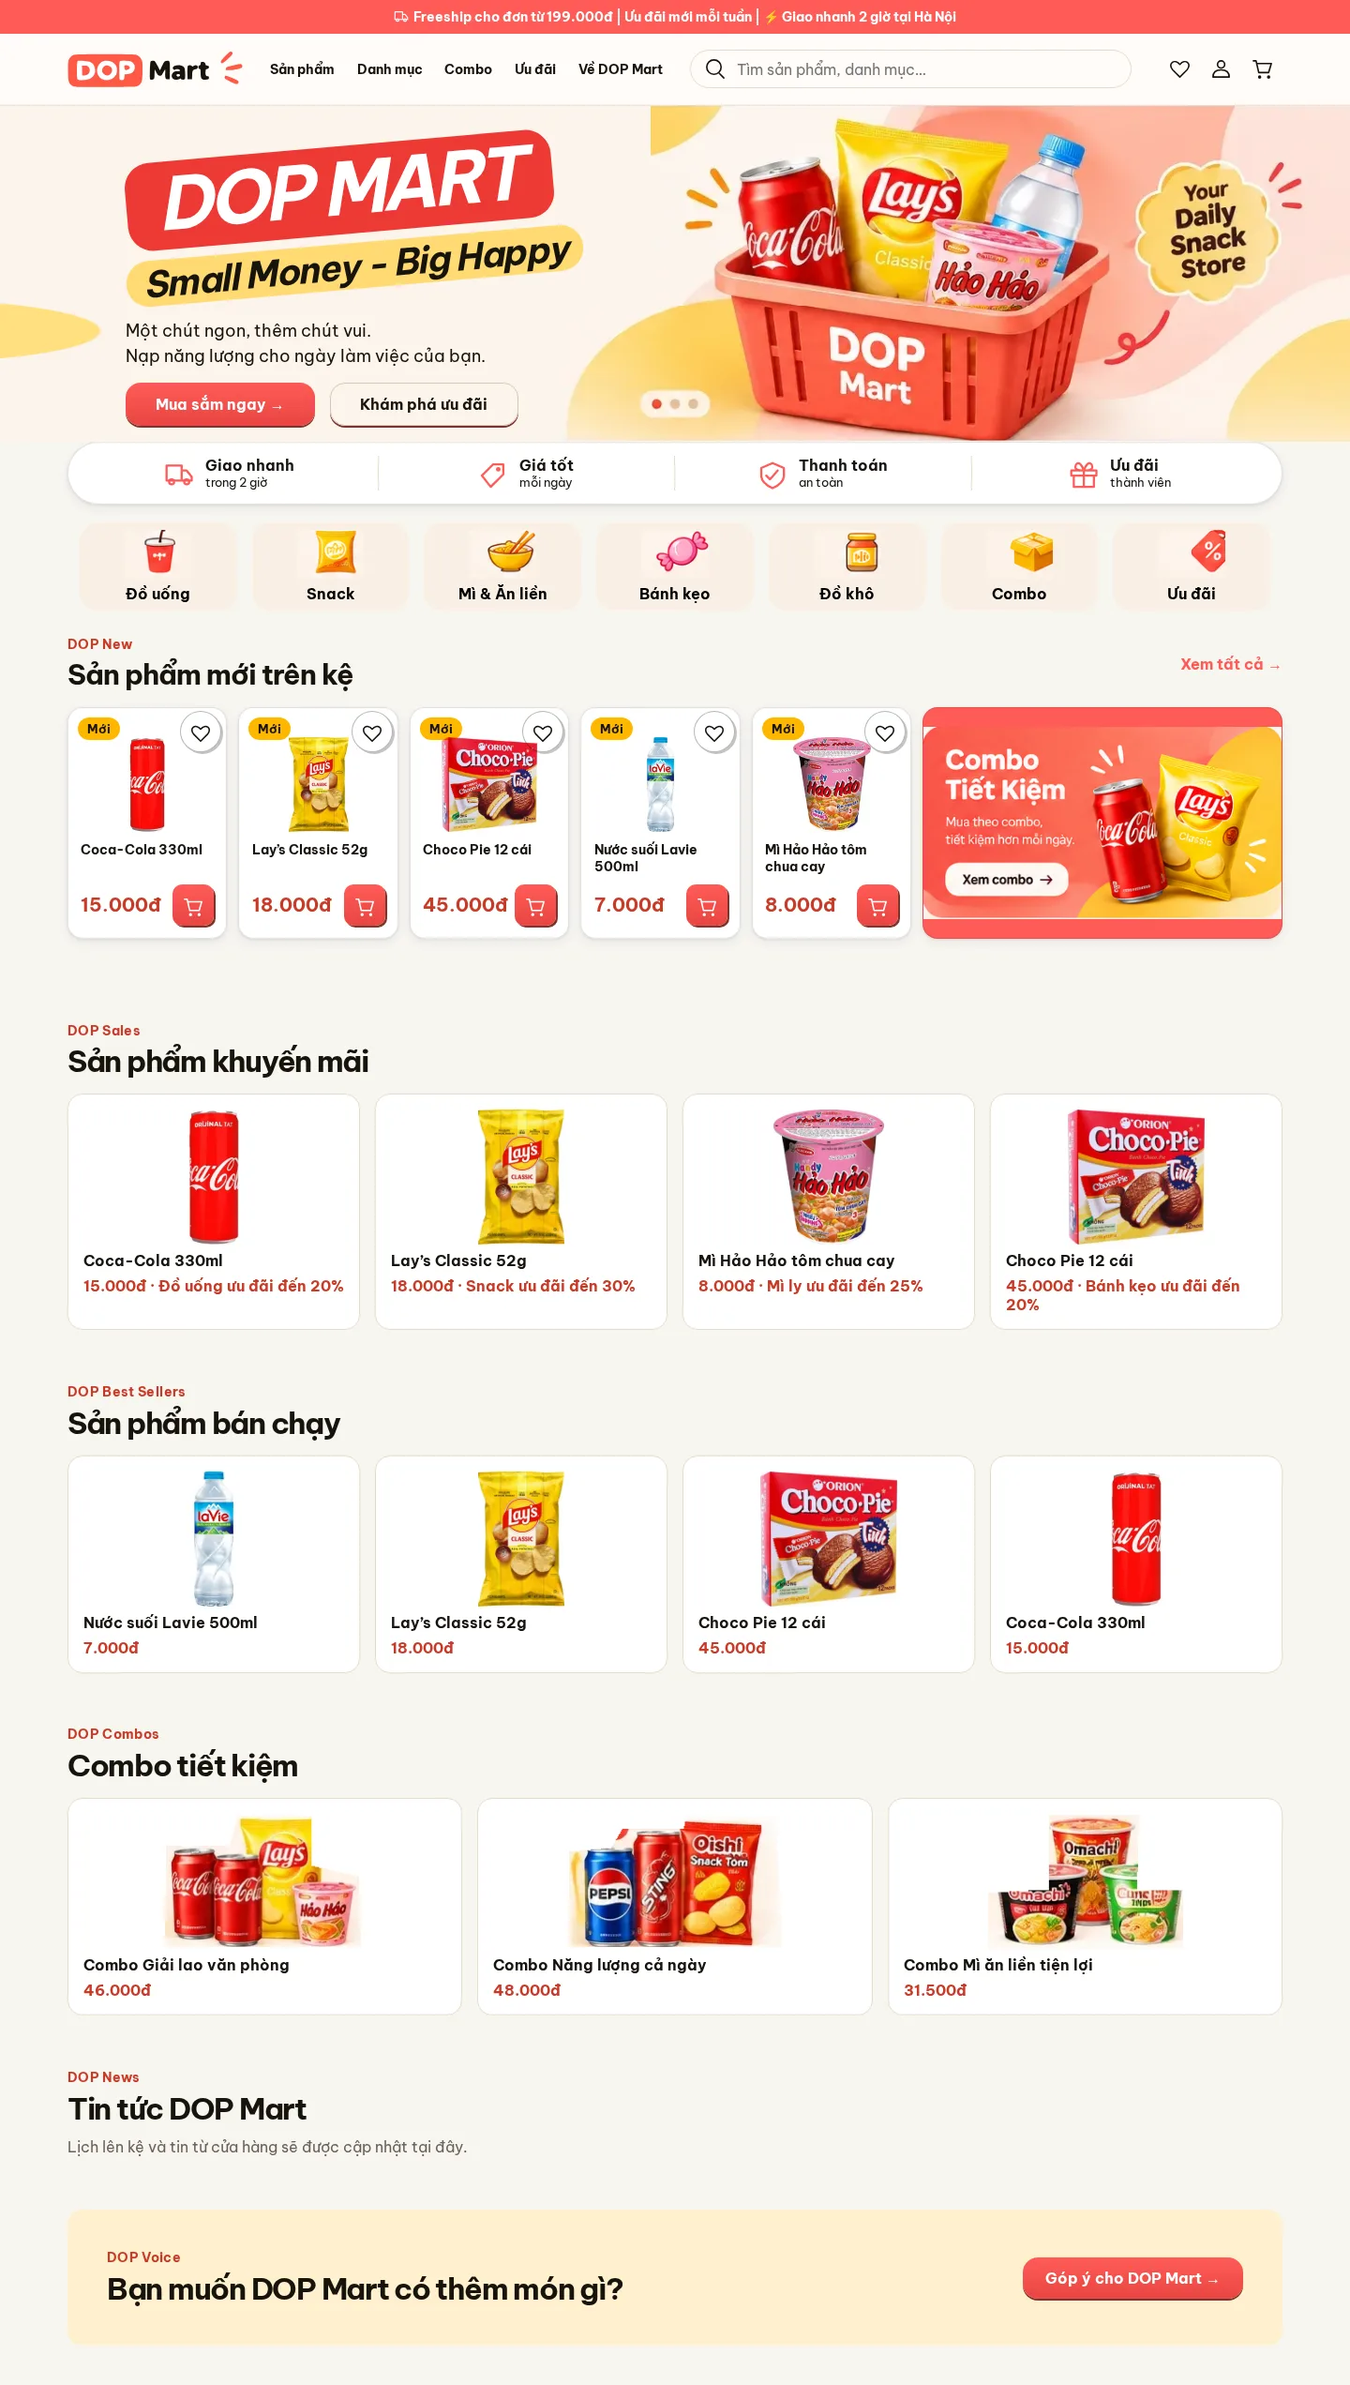
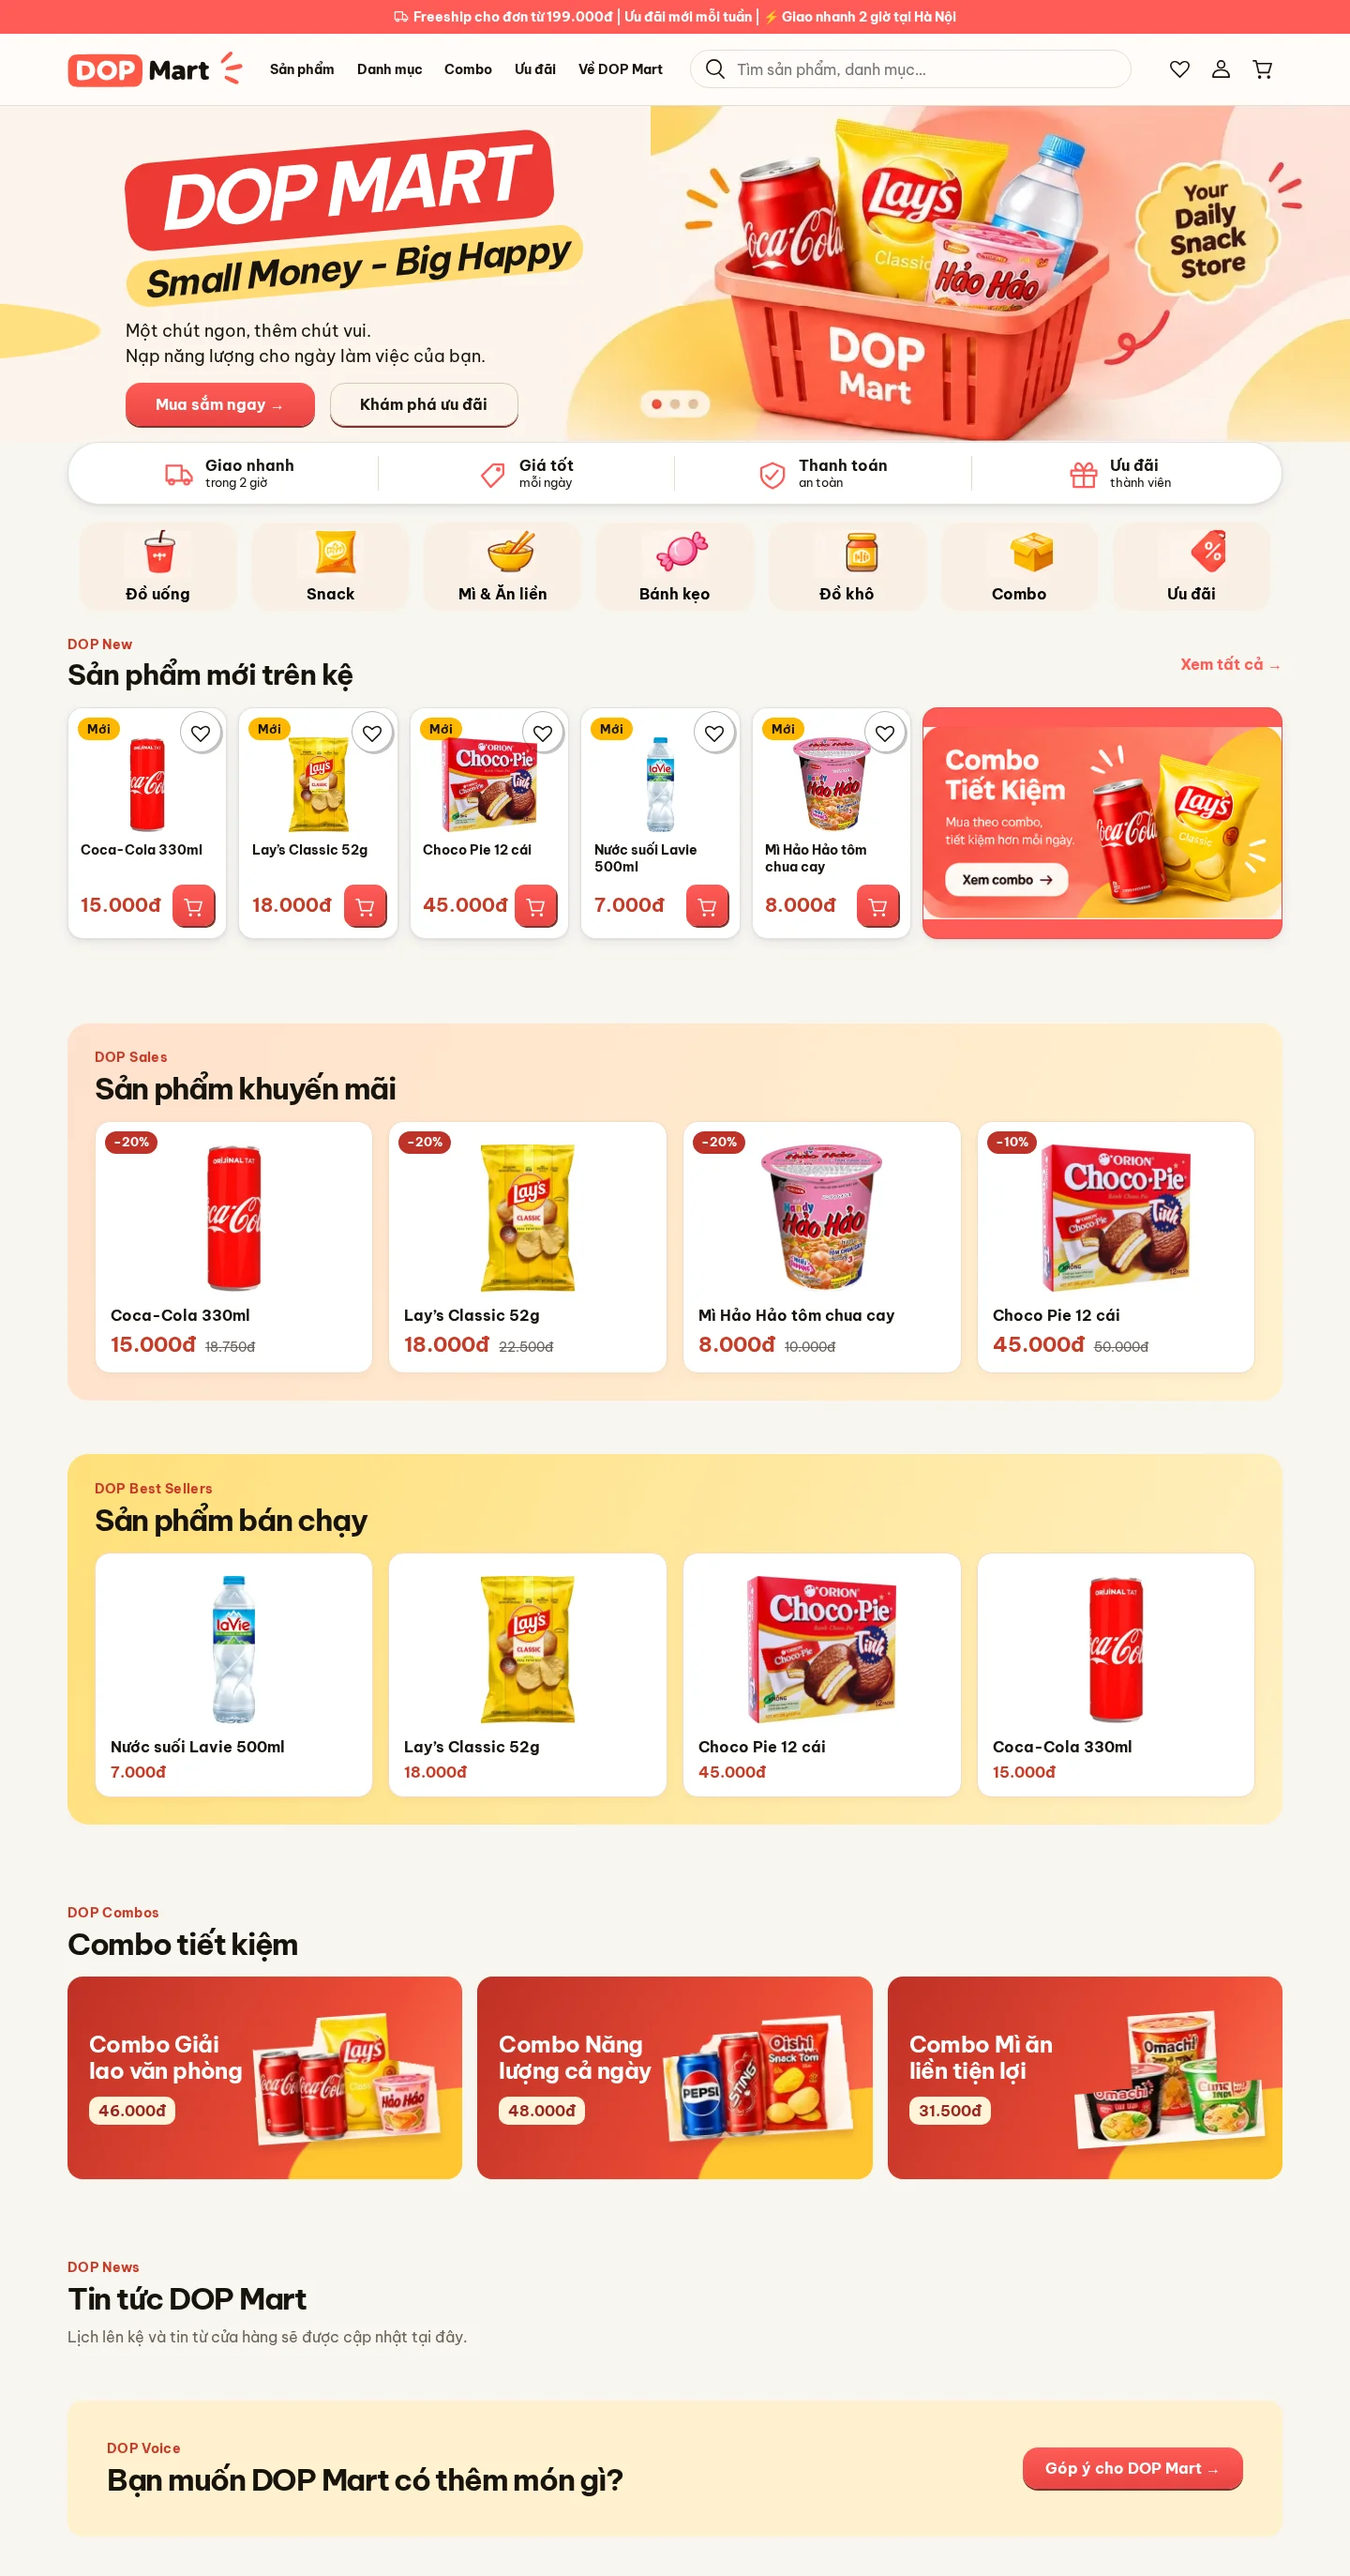
Give homepage shelves product-led color and explicit sale pricing

diff --git a/storefront-ui/homepage/css/pages/shelves.css b/storefront-ui/homepage/css/pages/shelves.css
@@ -15,3 +15,57 @@
   .shelf-card { padding:12px; font-size:14px; }
   .feedback-invite { align-items:flex-start; flex-direction:column; }
 }
+
+/* The image takes the largest area on each shelf; warm color frames the pack. */
+.shelves .dop-section:has(.shelf) {
+  padding: clamp(16px,2vw,32px);
+  border-radius: calc(var(--radius) * 1.4);
+}
+.shelves .dop-section:has([data-shelf="sales"]) {
+  background: linear-gradient(112deg,#ffe1ce,#fff1cc);
+}
+.shelves .dop-section:has([data-shelf="best"]) {
+  background: linear-gradient(115deg,#ffdf79,#fff0c4);
+}
+.shelves .dop-section:has([data-shelf="combos"]) { padding-inline: 0; }
+.shelves .shelf-card {
+  position: relative;
+  grid-template-rows: auto 1fr auto;
+  border-color: #f2dbc2;
+  box-shadow: 0 3px 8px #8043130d;
+}
+.shelves .shelf-card img {
+  height: clamp(124px,12vw,182px);
+  padding: 8px;
+}
+.shelves .sale-label {
+  position: absolute; top: 10px; left: 10px;
+  background: #bd3227; color: white; padding: 4px 9px;
+  border-radius: 20px; font-size: 13px; line-height: 1.2;
+}
+.sale-prices { display: flex; align-items: baseline; flex-wrap: wrap; gap: 4px 10px; font-variant-numeric: tabular-nums; }
+.sale-prices strong { color: var(--price); font-size: clamp(18px,1.55vw,24px); }
+.sale-prices del { color: var(--muted); font-size: 14px; }
+.shelves .combo-offer {
+  overflow: hidden; position: relative; isolation: isolate;
+  border-radius: var(--radius); min-height: clamp(156px,15vw,225px);
+  display: grid; grid-template-columns: .92fr 1.08fr; align-items: center; gap: 4px;
+  padding: clamp(14px,1.6vw,24px);
+  background: radial-gradient(ellipse at 108% 105%,#ffc531 0 34%,transparent 34.5%),
+    linear-gradient(120deg,#be3025,#ef4e38 68%,#ff7955);
+  color: white;
+}
+.combo-offer b { display: block; font-size: clamp(19px,1.65vw,27px); line-height: 1.18; letter-spacing: -.025em; }
+.combo-offer span { display: inline-block; margin-top: 14px; padding: 5px 10px; border-radius: 10px; background:#fff4d9; color:#99281e; font-weight:700; }
+.combo-offer img { width: 100%; transform: rotate(-4deg); filter: drop-shadow(0 6px 4px #7b261d36); }
+@media(max-width:900px) {
+  [data-shelf="combos"] { grid-template-columns: 1fr; }
+  .shelves .combo-offer { grid-template-columns: 1fr minmax(100px,36%); min-height: 136px; }
+  .combo-offer img { height: 112px; object-fit: contain; }
+}
+@media(max-width:600px) {
+  .shelves .dop-section:has(.shelf) { padding: 14px 10px; }
+  .shelves .dop-section:has([data-shelf="combos"]) { padding-inline: 0; }
+  .shelves .shelf-card { padding: 10px; }
+  .sale-prices del { font-size: 12px; }
+}

diff --git a/storefront-ui/homepage/js/shelves.js b/storefront-ui/homepage/js/shelves.js
@@ -15,11 +15,26 @@
     let cards;
     switch (shelf.dataset.shelf) {
       case 'sales':
-        cards = [['cola', 'Đồ uống',20],['lays','Snack',30],['noodle','Mì ly',25],['choco','Bánh kẹo',20]]
-          .map(([key,title,percent]) => card('product.html?id='+key,key,catalog[key][0],moneyLabel(catalog[key][1])+' · '+title+' ưu đãi đến '+percent+'%'));
+        cards = Object.entries(saleReferencePrices).map(([id, original]) => {
+          const [name, price] = catalog[id];
+          const discount = Math.round(100 * (original - price) / original);
+          return `<a class="shelf-card sale-card" href="product.html?id=${id}">
+            <span class="sale-label">−${discount}%</span>
+            <img loading="lazy" src="assets/images/${id}.webp" alt="">
+            <b>${name}</b>
+            <div class="sale-prices"><strong aria-label="Giá sau giảm ${moneyLabel(price)}">${moneyLabel(price)}</strong>
+              <del aria-label="Giá trước giảm ${moneyLabel(original)}">${moneyLabel(original)}</del></div>
+          </a>`;
+        });
         break;
       case 'combos':
-        cards = ['office','energy','noodles'].map(id => card('deals.html#combos','deals/'+id,catalog[id][0],moneyLabel(catalog[id][1])));
+        cards = ['office','energy','noodles'].map(id => {
+          const [name, price] = catalog[id];
+          return `<a class="combo-offer" href="deals.html#combos">
+            <div><b>${name}</b><span>${moneyLabel(price)}</span></div>
+            <img loading="lazy" src="assets/images/deals/${id}.webp" alt="">
+          </a>`;
+        });
         break;
       case 'best':
         cards = ranked(ids, delivered).slice(0,4).map(product);

diff --git a/storefront-ui/homepage/js/catalog.js b/storefront-ui/homepage/js/catalog.js
@@ -8,3 +8,6 @@ const catalog = {
   water: ['Nước suối Lavie 500ml', 7000],
   choco: ['Choco Pie 12 cái', 45000]
 };
+
+// Reference prices for the storefront preview. Checkout uses the catalog price.
+const saleReferencePrices = { cola: 18750, lays: 22500, noodle: 10000, choco: 50000 };
